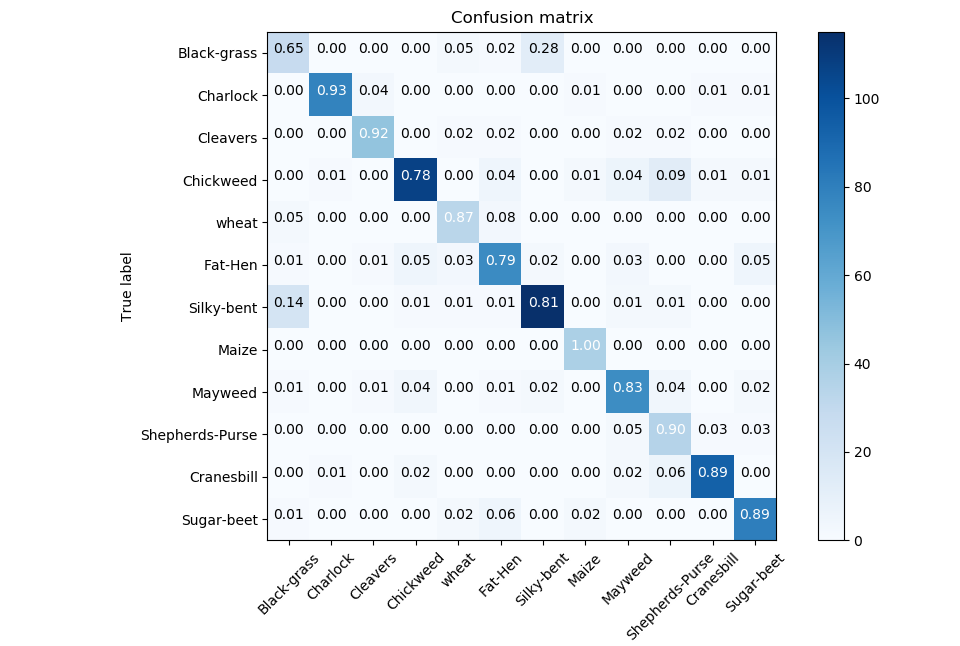
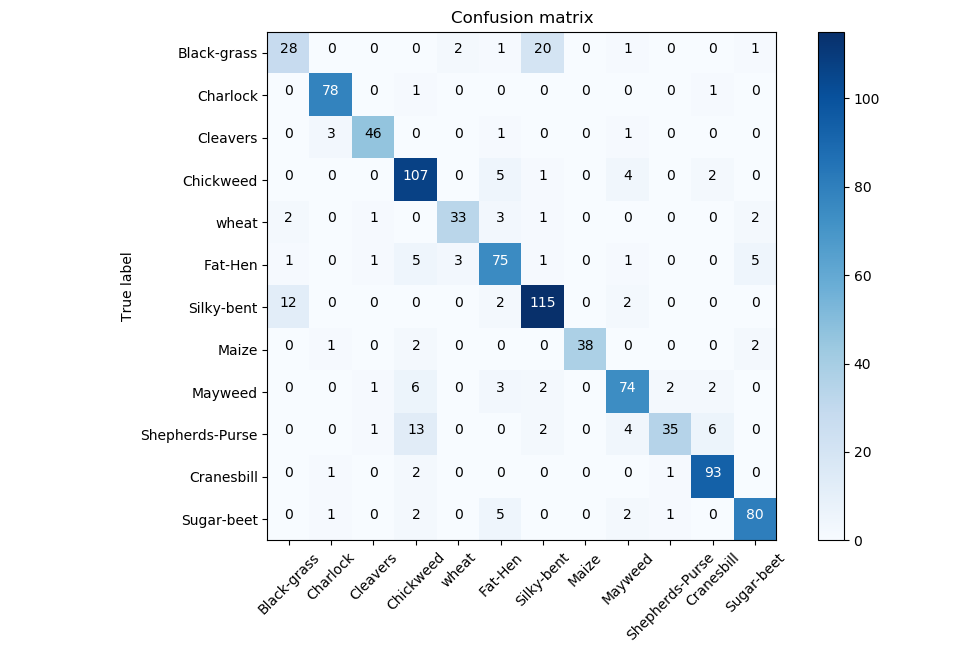
confusion mat fix

diff --git a/tests/confusion.py b/tests/confusion.py
@@ -108,6 +108,7 @@ if __name__=='__main__':
 	 'Fat-Hen', 
 	 'Cleavers', 
 	 'Purse']
+	
 	'''
 	names = [
 		 'Black-grass', 
@@ -123,13 +124,15 @@ if __name__=='__main__':
 		 'Cranesbill', 
 		 'Sugar-beet'
 		 ]
-	print(result.shape)
 	'''
-	cm = confusion_matrix(resnet152[:,0], resnet152[:,1])
+	#print(result.shape)
+	
+	cm = confusion_matrix(resnet152[:,1], resnet152[:,0])
+	print(cm)
 	plot_confusion_matrix(cm,
 		                  names,
 		                  title='Confusion matrix',
 		                  cmap=None,
-		                  normalize=True)	
+		                  normalize=False)	
 
 	

diff --git a/README.md b/README.md
@@ -36,7 +36,7 @@ You can obtain the original dataset [here](https://vision.eng.au.dk/plant-seedli
 
 I experimented with pre-trained CNN models with their final FC layers removed, Resnet50 and Resnet152, to extract useful features for classification.
 
-After 20 epochs of training on a 80-20 spit of the dataset, 80% training 20% validation, I got the following result.
+After 20 epochs of training on a 80-20 spit of the dataset(~4750 images), 80% training 20% validation, I got the following result.
 
 
 | Model    | Accuracy (%) | Size (Mb) | Precision | Recall |
